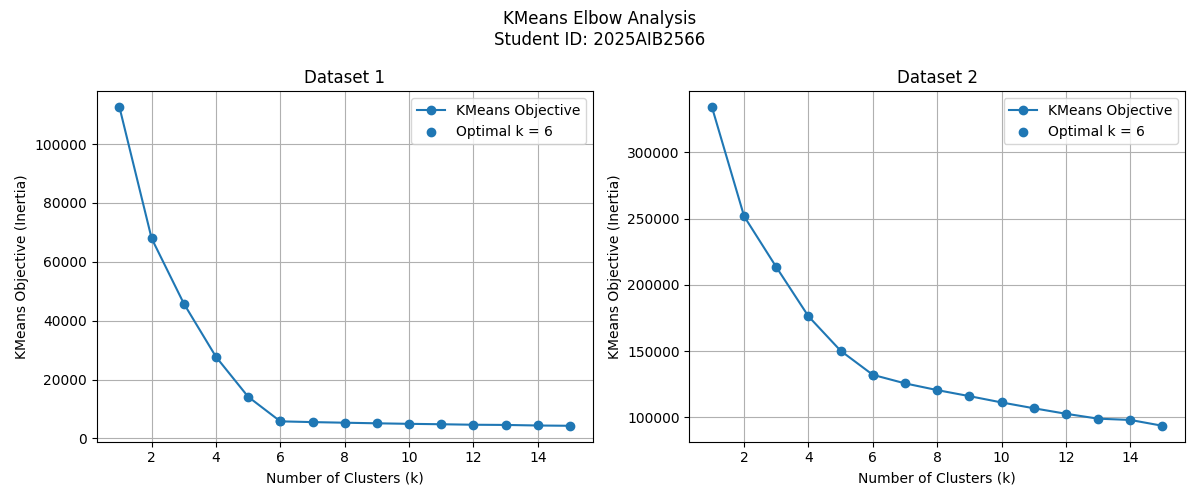
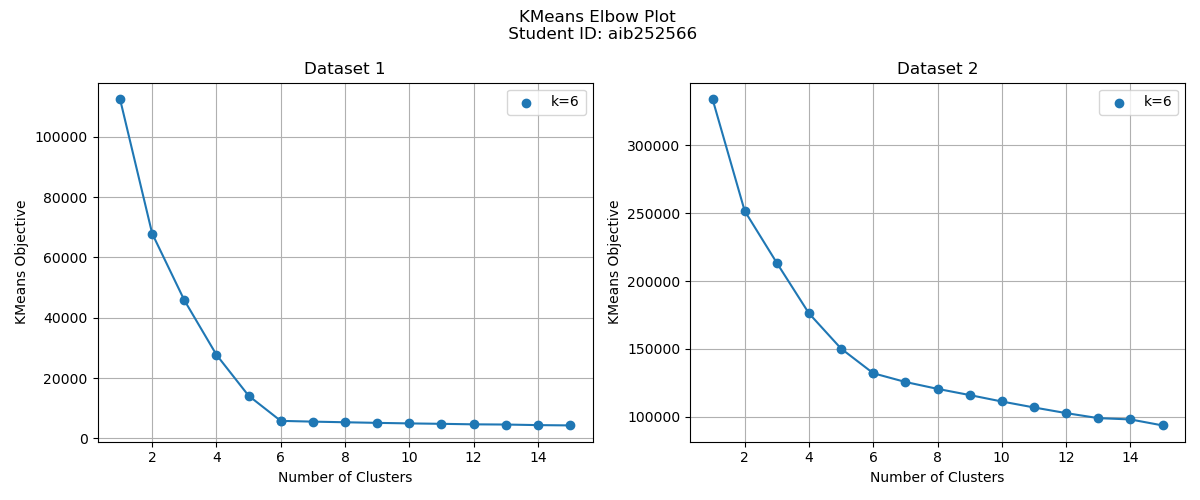
final commit

diff --git a/A2/q1/Q1.py b/A2/q1/Q1.py
@@ -1,6 +1,7 @@
-import sys
-import os
+#!/usr/bin/env python3
+
 import json
+import sys
 import urllib.request
 import numpy as np
 import matplotlib.pyplot as plt
@@ -8,33 +9,7 @@ from sklearn.cluster import KMeans
 from sklearn.decomposition import PCA
 
 
-# -----------------------------
-# Argument Parsing
-# -----------------------------
-
-def parse_argument():
-
-    if len(sys.argv) != 2:
-        print("Usage: python3 Q1.py <1|2|dataset.npy>")
-        sys.exit(1)
-
-    arg = sys.argv[1]
-
-    # dataset via API
-    if arg in {"1", "2"}:
-        return ("api", int(arg))
-
-    # dataset via npy file
-    if arg.endswith(".npy"):
-
-        if not os.path.isfile(arg):
-            print("Error: .npy file not found")
-            sys.exit(1)
-
-        return ("file", arg)
-
-    print("Invalid argument. Use dataset 1, dataset 2, or a .npy file.")
-    sys.exit(1)
+student_id = "aib252566"
 
 
 # -----------------------------
@@ -43,58 +18,37 @@ def parse_argument():
 
 def load_from_api(dataset_num):
 
-    url = f"http://hulk.cse.iitd.ac.in:3000/dataset?student_id=aib252566&dataset_num={dataset_num}"
+    url = f"http://hulk.cse.iitd.ac.in:3000/dataset?student_id={student_id}&dataset_num={dataset_num}"
 
-    try:
-        with urllib.request.urlopen(url) as response:
-            raw = response.read().decode("utf-8")
-            data = json.loads(raw)
-            X = np.array(data["X"])
-    except Exception as e:
-        print("Error fetching dataset:", e)
-        sys.exit(1)
+    req = urllib.request.Request(url, headers={"User-Agent": "Mozilla/5.0"})
+
+    with urllib.request.urlopen(req) as response:
+        raw = response.read().decode("utf-8")
+        data = json.loads(raw)
+        X = np.array(data["X"])
 
     return X
 
 
-def load_dataset():
-
-    mode, value = parse_argument()
-
-    if mode == "api":
-        return load_from_api(value)
-
-    else:
-        try:
-            return np.load(value)
-        except Exception:
-            print("Invalid numpy file")
-            sys.exit(1)
+def load_from_npy(path):
+    return np.load(path)
 
 
 # -----------------------------
-# PCA for High Dimensional Data
+# PCA
 # -----------------------------
 
 def maybe_apply_pca(X):
 
-    n_samples, n_features = X.shape
-
-    # heuristic threshold
-    if n_features > 50:
-
-        # reduce while preserving 95% variance
+    if X.shape[1] > 50:
         pca = PCA(n_components=0.95, random_state=0)
-
-        X_reduced = pca.fit_transform(X)
-
-        return X_reduced
+        X = pca.fit_transform(X)
 
     return X
 
 
 # -----------------------------
-# KMeans Objective Calculation
+# KMeans Objective
 # -----------------------------
 
 def compute_kmeans_objectives(X):
@@ -104,12 +58,7 @@ def compute_kmeans_objectives(X):
 
     for k in ks:
 
-        kmeans = KMeans(
-            n_clusters=k,
-            n_init=20,
-            random_state=0
-        )
-
+        kmeans = KMeans(n_clusters=k, n_init=20, random_state=0)
         kmeans.fit(X)
 
         objectives.append(kmeans.inertia_)
@@ -118,83 +67,119 @@ def compute_kmeans_objectives(X):
 
 
 # -----------------------------
-# Geometric Elbow Detection
+# Elbow Detection
 # -----------------------------
 
-def find_elbow(ks, objectives):
+def find_elbow(ks, objectives): 
+    ks = np.array(ks) 
+    objs = np.array(objectives) 
+    p1 = np.array([ks[0], objs[0]]) 
+    p2 = np.array([ks[-1], objs[-1]]) 
+    line_vec = p2 - p1 
+    norm_line = np.linalg.norm(line_vec) 
+    distances = [] 
+    
+    for k, obj in zip(ks, objs): 
+        p = np.array([k, obj]) # cross product magnitude 
+        numerator = abs( line_vec[0]*(p1[1]-p[1]) - line_vec[1]*(p1[0]-p[0]) ) 
+        dist = numerator / norm_line 
+        distances.append(dist) 
 
-    ks = np.array(ks)
-    objs = np.array(objectives)
-
-    p1 = np.array([ks[0], objs[0]])
-    p2 = np.array([ks[-1], objs[-1]])
-
-    line_vec = p2 - p1
-    norm_line = np.linalg.norm(line_vec)
-
-    distances = []
-
-    for k, obj in zip(ks, objs):
-
-        p = np.array([k, obj])
-
-        # cross product magnitude
-        numerator = abs(
-            line_vec[0]*(p1[1]-p[1]) -
-            line_vec[1]*(p1[0]-p[0])
-        )
-
-        dist = numerator / norm_line
-
-        distances.append(dist)
-
-    elbow_index = np.argmax(distances)
-
+    elbow_index = np.argmax(distances) 
     return ks[elbow_index]
 
-
 # -----------------------------
-# Plot Generation
-# -----------------------------
-
-def generate_plot(ks, objectives):
-
-    plt.figure(figsize=(12,7), dpi=200)
-
-    plt.plot(ks, objectives, marker="o")
-
-    plt.xlabel("Number of Clusters (k)")
-    plt.ylabel("KMeans Objective (Inertia)")
-    plt.title("Elbow Method for Optimal k")
-
-    plt.grid(True)
-
-    plt.savefig("plot.png")
-
-
-# -----------------------------
-# Main
+# Process Dataset
 # -----------------------------
 
-def main():
+def process_dataset(X):
 
-    X = load_dataset()
-
-    # ensure numpy array
-    X = np.asarray(X)
-
-    # handle high dimensions
     X = maybe_apply_pca(X)
 
     ks, objectives = compute_kmeans_objectives(X)
-
     optimal_k = find_elbow(ks, objectives)
 
-    generate_plot(ks, objectives)
-
-    # required stdout output
-    print(optimal_k)
+    return ks, objectives, optimal_k
 
 
-if __name__ == "__main__":
-    main()
+# -----------------------------
+# MAIN
+# -----------------------------
+
+if len(sys.argv) != 2:
+    print("Usage: python rrunner.py <digit | dataset.npy>")
+    sys.exit()
+
+arg = sys.argv[1]
+
+
+# ==========================
+# MODE 1 : API (two datasets)
+# ==========================
+
+if arg.isdigit():
+
+    X1 = load_from_api("1")
+    X2 = load_from_api("2")
+
+    ks1, obj1, k1 = process_dataset(X1)
+    ks2, obj2, k2 = process_dataset(X2)
+
+    print("k for Dataset 1:",k1)
+    print("k for Dataset 2:",k2)
+
+    fig, axes = plt.subplots(1, 2, figsize=(12, 5))
+
+    # Dataset 1
+    axes[0].plot(ks1, obj1, marker="o")
+    axes[0].scatter(k1, obj1[ks1.index(k1)], label=f"k={k1}")
+    axes[0].set_title("Dataset 1")
+    axes[0].set_xlabel("Number of Clusters")
+    axes[0].set_ylabel("KMeans Objective")
+    axes[0].legend()
+    axes[0].grid(True)
+
+    # Dataset 2
+    axes[1].plot(ks2, obj2, marker="o")
+    axes[1].scatter(k2, obj2[ks2.index(k2)], label=f"k={k2}")
+    axes[1].set_title("Dataset 2")
+    axes[1].set_xlabel("Number of Clusters")
+    axes[1].set_ylabel("KMeans Objective")
+    axes[1].legend()
+    axes[1].grid(True)
+
+    plt.suptitle(f"KMeans Elbow Plot \n Student ID: {student_id}")
+
+    plt.tight_layout()
+
+    plt.savefig("plot.png")
+    plt.close()
+
+
+# ==========================
+# MODE 2 : NPY (single plot)
+# ==========================
+
+elif arg.endswith(".npy"):
+
+    X = load_from_npy(arg)
+
+    ks, obj, k = process_dataset(X)
+
+    print(k)
+    plt.figure()
+
+    plt.plot(ks, obj, marker="o")
+    plt.scatter(k, obj[ks.index(k)], label=f"k={k}")
+
+    plt.xlabel("Number of Clusters")
+    plt.ylabel("KMeans Objective")
+    plt.title(f"KMeans Elbow Plot \n {arg}")
+    plt.legend()
+    plt.grid(True)
+
+    plt.savefig("plot.png")
+    plt.close()
+
+else:
+    print("Invalid input")
